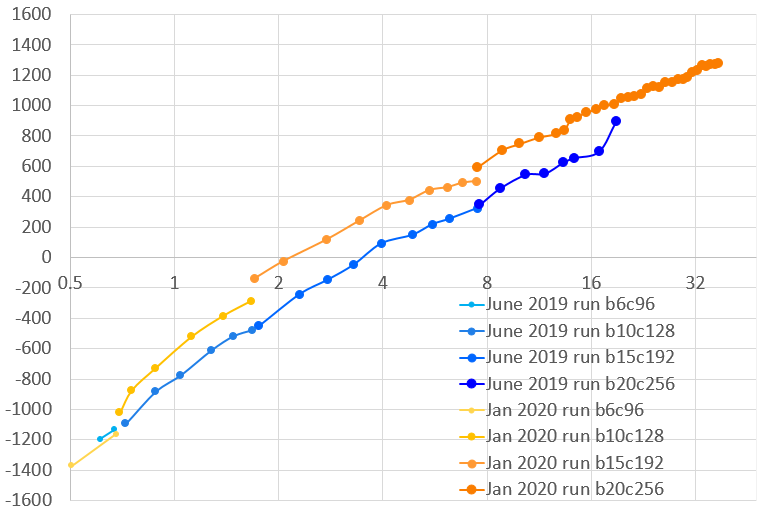
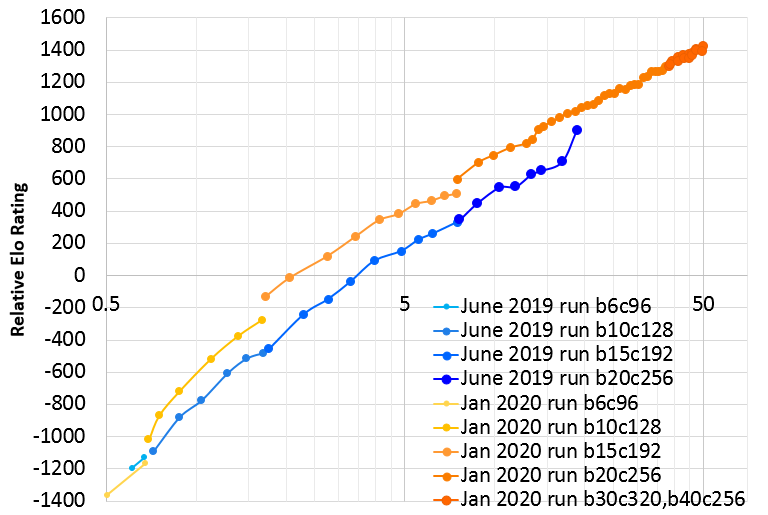
Update readme

diff --git a/README.md b/README.md
@@ -18,41 +18,44 @@ KataGo's engine also aims to be a useful tool for Go players and developers, and
 
 ## Current Status and History
 
-KataGo is on its third major official run! As of the end of January 2020 after training for a little more than a month, it appears to be as strong or stronger than Leela Zero's final official 40-block nets at moderate numbers of playouts (thousands to low tens of thousands), despite only using a 20-block net. Earlier, it also surpassed the prior 19-day official run from June 2019 in only about 12-14 days, and at this point is almost 400 Elo stronger. This is due to various training improvements which were not present in prior runs. In addition to reaching stronger faster, this third run adds support for Japanese rules, stronger handicap play, and greatly more accurate score estimation. And going into February 2020, KataGo will be switching to some bigger nets!
+KataGo is on its third major official run! As of the end of January 2020 after training for a little more than a month, it appears to be as strong or stronger than Leela Zero's final official 40-block nets at moderate numbers of playouts (thousands to low tens of thousands), despite only using a 20-block net. Earlier, it also surpassed the prior 19-day official run from June 2019 in only about 12-14 days, and at this point is almost 400 Elo stronger. This is due to various training improvements which were not present in prior runs. In addition to reaching stronger faster, this third run adds support for Japanese rules, stronger handicap play, and greatly more accurate score estimation. Training was delayed for a large chunk of February 2020 due to hardware/logistical issues, but has resumed and KataGo is now starting to train some bigger nets!
 
 Strong 20 block x 256 channel networks are available for download! See the [releases page](https://github.com/lightvector/KataGo/releases) for the latest release and these neural nets. Download more trained neural nets [here](https://d3dndmfyhecmj0.cloudfront.net/g170/index.html). Also available for download are a few *very* strong smaller nets. These include a fast 10-block network that nearly matches the strength of many earlier 15 block nets, including KataGo best 15-block net from last year and Leela Zero's LZ150. This new run also features a very strong 15-block network that should be approximately the strength of ELFv2, a 20-block network, at least at low thousands of playouts. Hopefully they are useful for users with weaker hardware.
 
-Here is a graph of the improvement so far as of about 38 days:
+Here is a graph of the improvement so far as of about 50 days:
 
 <table class="image">
 <tr><td><img src="https://raw.githubusercontent.com/lightvector/KataGo/master/images/readme/jan2020vsjune2019.png" height="350"/></td></tr>
 <tr><td><sub>X axis is days of training, log scale. (note: hardware is about the same but not entirely identical). Y axis is relative Elo rating based on some 1200-visit test matches. The abrupt jump at the end of the June 2019 run is due to a LR drop in that run that the current run, gradually, still has only partially applied.</sub></tr></td>
 </table>
 
-Currently the run is using about 37 GPUs (increased from about 29 after surpassing last year's run in 14 days) and hopes to continue to improve further.
+Currently the run is using about 47 GPUs and hopes to continue to improve further. (Only 29 GPUs were used to surpass last year's run in the first 14 days. After 14 days increased to 37 GPUs, then after 24 more days increased again to around 47 GPUs) 
 
-Just for fun, here's a table of the Elo strength of selected versions, based on a few tens of thousands of games between these and other versions in a pool (1200 visits). Current run:
+Just for fun, here's a table of the Elo strength of selected versions, based on a few tens of thousands of games between these and other versions in a pool (1200 visits). These are based on fixed search tree size, NOT fixed computation time. Current run:
 
 | Neural Net | Note | Approx Days Selfplay | Elo |
 |-------------|-------|---------------|------|
-| g170-b6c96-s175395328-d26788732 | (last selfplay 6 block)   | 0.75    |      -1163 |
-| g170-b10c128-s197428736-d67404019 |  (last selfplay 10 block)  | 1.75  |      -288 |
-| g170e-b10c128-s1141046784-d204142634  | (extended training 10 block)  | -  |   280 |
-| g170-b15c192-s497233664-d149638345 |   (last selfplay 15 block) | 7.5  |      501 |
-| g170e-b15c192-s1305382144-d335919935  | (extended training 15 block)  | -  |   863 |
-| g170-b20c256x2-s668214784-d222255714  | (20 block)  |  15.5 |   957 |
-| g170-b20c256x2-s1039565568-d285739972  | (20 block)   | 21.5 |    1061 |
-| g170-b20c256x2-s1420141824-d350969033  | (20 block)   | 27.5 |    1152 |
-| g170-b20c256x2-s1913382912-d435450331  | (20 block)   | 35.5 |    1269 |
+| g170-b6c96-s175395328-d26788732 | (last selfplay 6 block)   | 0.75    |      -1167 |
+| g170-b10c128-s197428736-d67404019 |  (last selfplay 10 block)  | 1.75  |      -279 |
+| g170e-b10c128-s1141046784-d204142634  | (extended training 10 block)  | -  |   296 |
+| g170-b15c192-s497233664-d149638345 |   (last selfplay 15 block) | 7.5  |      509 |
+| g170e-b15c192-s1305382144-d335919935  | (extended training 15 block)  | -  |   867 |
+| g170-b20c256x2-s668214784-d222255714  | (20 block)  |  15.5 |   956 |
+| g170-b20c256x2-s1039565568-d285739972  | (20 block)   | 21.5 |    1063 |
+| g170-b20c256x2-s1420141824-d350969033  | (20 block)   | 27.5 |    1157 |
+| g170-b20c256x2-s1913382912-d435450331  | (last selfplay 20 block)  | 38.5 |    1281 |
+| g170e-b20c256x2-s2430231552-d525879064 | (extended training 20 block)  | -  | 1341  |
+| g170-b30c320x2-s1287828224-d525929064  | (30 block more channels)  | 47.5 |    1405 |
+| g170-b40c256x2-s1349368064-d524332537  | (40 block less channels)  | 47   |    1401 |
 
 And for comparison to the old 2019 June official run (Elos computed within the same pool):
 
 | Neural Net | Note | Approx Days Selfplay |  Elo |
 |-------------|-------|---------------|------|
-| g104-b6c96-s97778688-d23397744 | (last selfplay 6 block)   |  0.75 |    -1135 |
-| g104-b10c128-s110887936-d54937276  | (last selfplay 10 block)     |  1.75 |    -480 |
-| g104-b15c192-s297383936-d140330251  | (last selfplay 15 block)    |  7.5 |    325 |
-| g104-b20c256-s447913472-d241840887  | (last selfplay 20 block)   |  19 |    893 |
+| g104-b6c96-s97778688-d23397744 | (last selfplay 6 block)   |  0.75 |    -1133 |
+| g104-b10c128-s110887936-d54937276  | (last selfplay 10 block)     |  1.75 |    -482 |
+| g104-b15c192-s297383936-d140330251  | (last selfplay 15 block)    |  7.5 |    331 |
+| g104-b20c256-s447913472-d241840887  | (last selfplay 20 block)   |  19 |    904 |
 
 ### Older Runs
 
